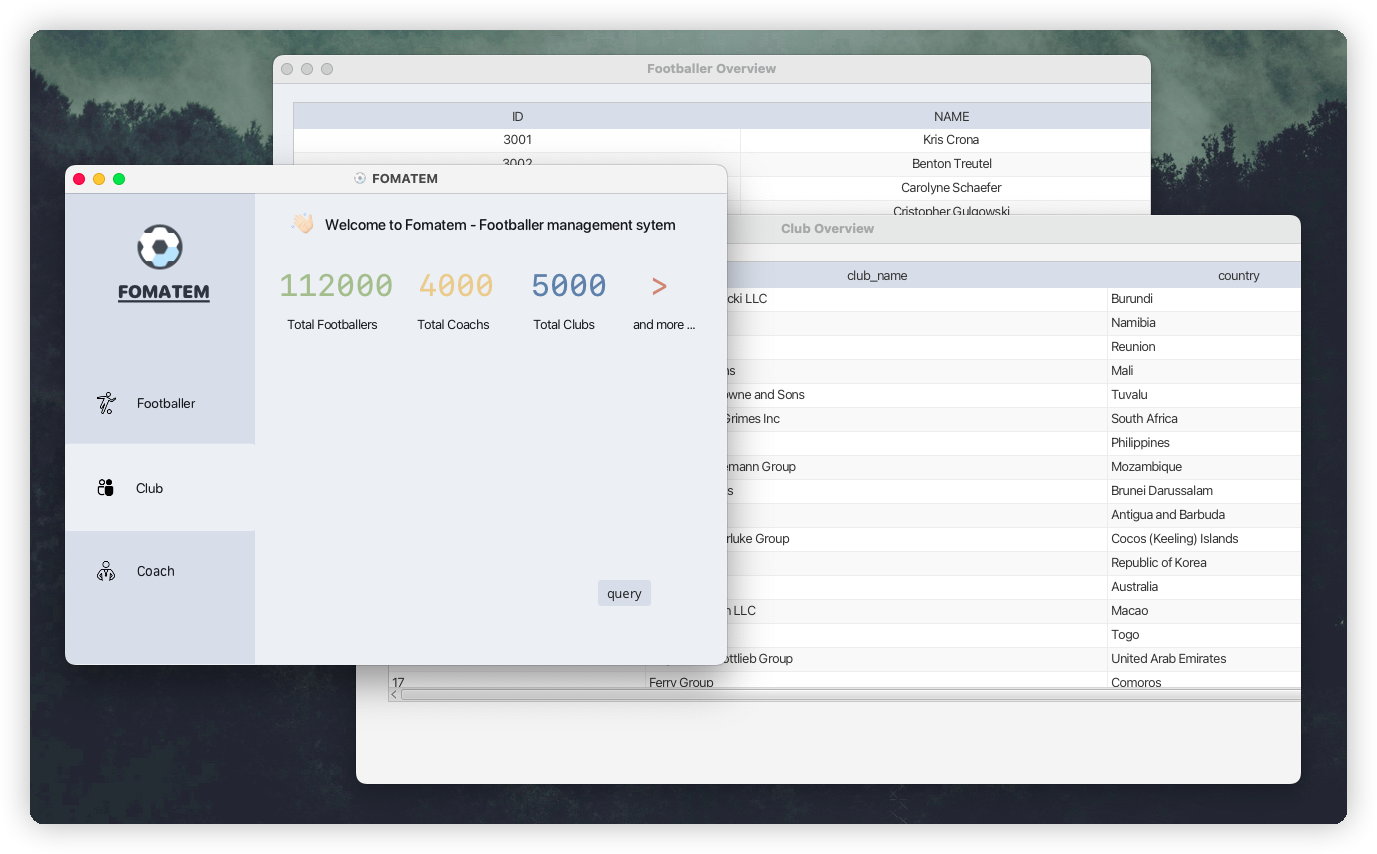
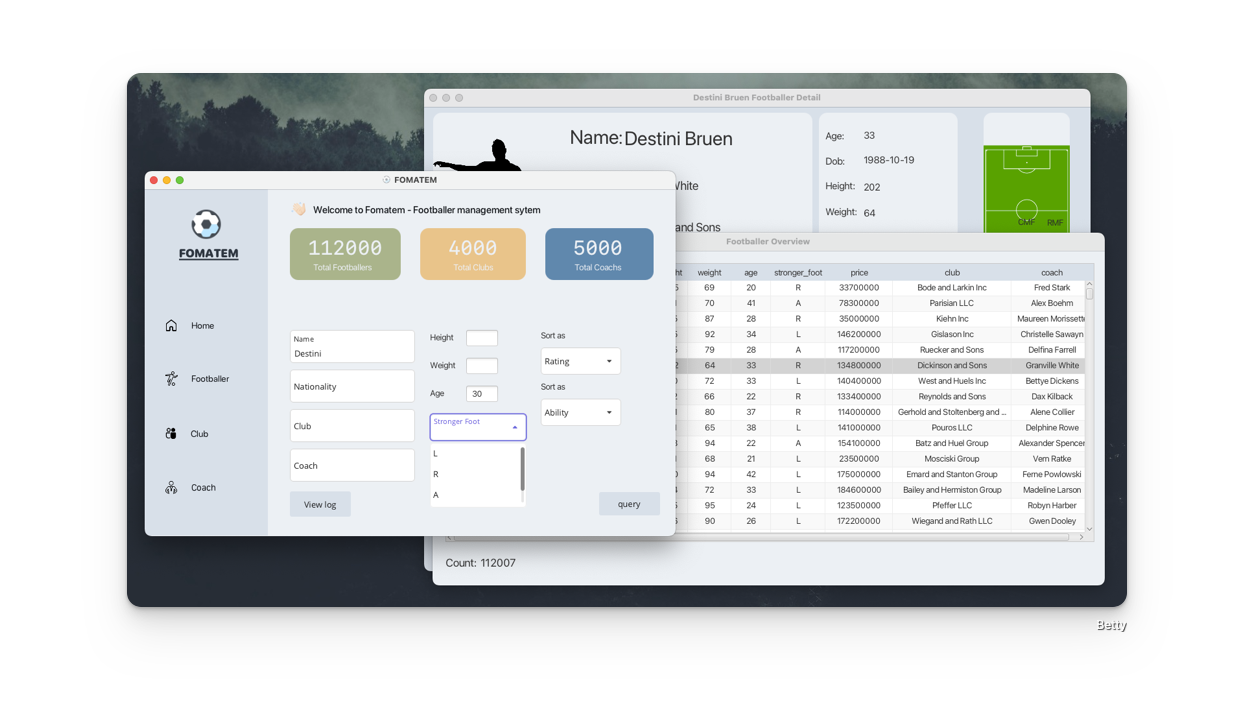
update README

diff --git a/showcase.md b/showcase.md
@@ -1,1 +1,25 @@
-![](./assets/overview.png)
+# Some images about FOMATEM
+
+![](./assets/oveview.gif)
+
+
+## Footballer
+
+1. Menu
+
+![](./assets/fb_menu.png)
+
+2. Overview selected footballer
+
+![](./assets/fb_overview.png)
+
+3. Detail selected footballer
+
+![](./assets/fb_detail.png)
+
+## Club
+
+![](./assets/club.png)
+## Coach
+
+![](./assets/coach.png)

diff --git a/README.md b/README.md
@@ -2,7 +2,7 @@
 
 An application to manage fooballer's information. Use [PostgreSQL](https://www.postgresql.org/) as local database.
 
-![](./assets/app.png)
+![](./assets/overview.png)
 
 # Features
 
